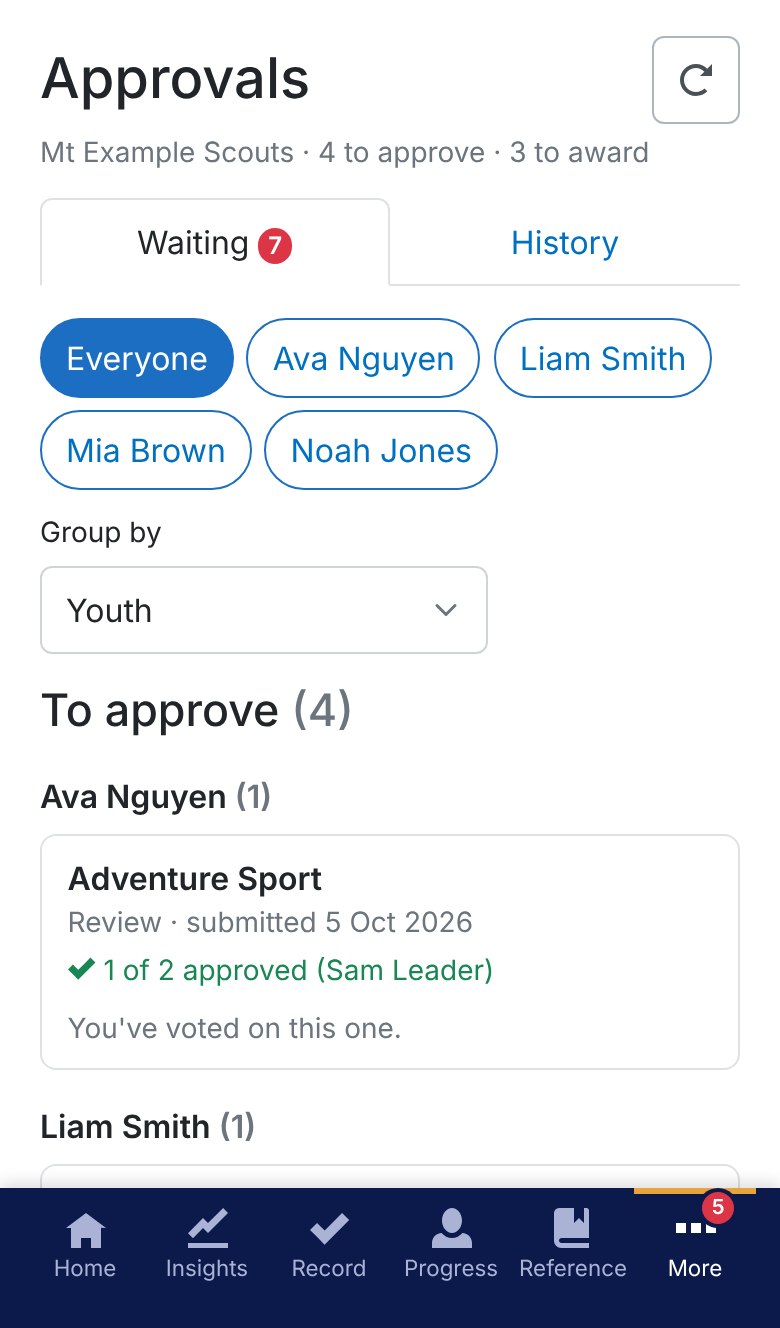
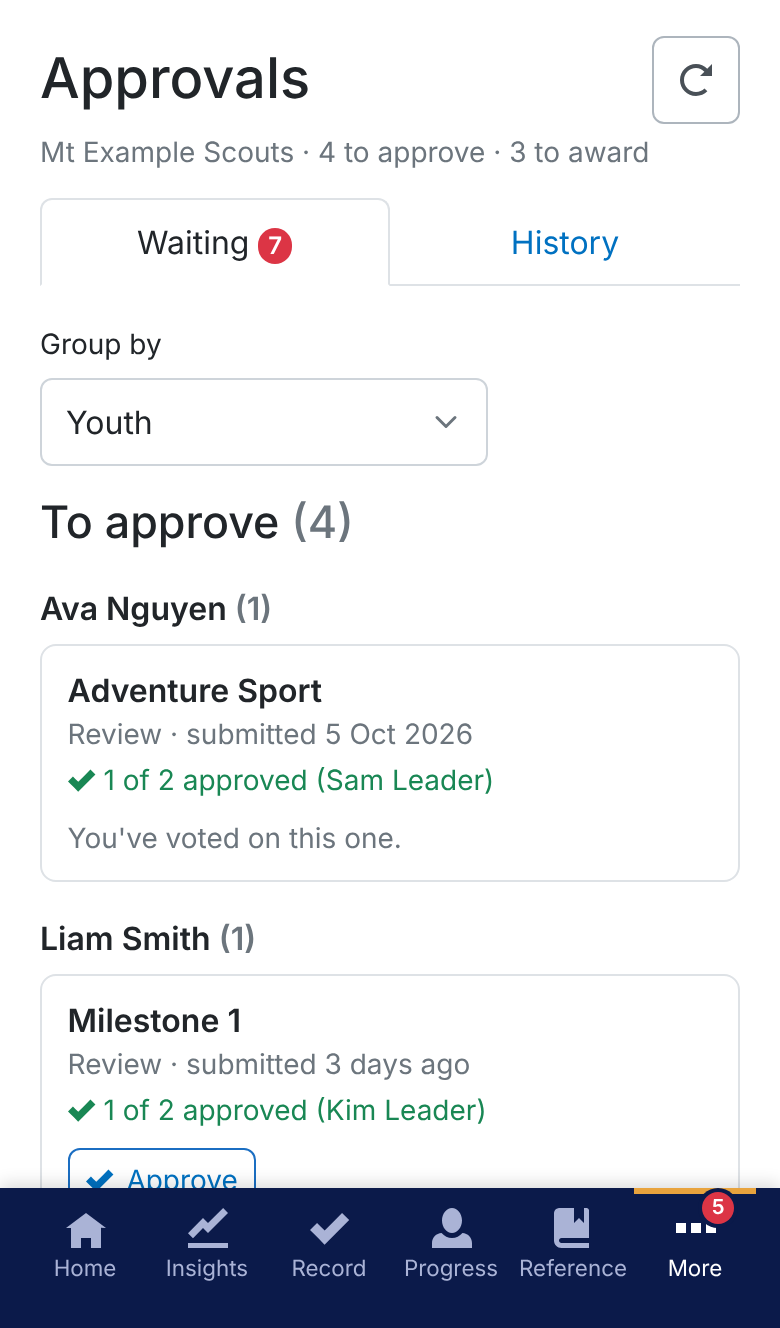
Approvals: drop the youth filter, keep Group by
The Waiting and History tabs no longer have the Everyone / youth chips.
Waiting keeps Group by (Youth or Achievement). The README's Approvals
screenshot is taken again to match.

Claude-Session: https://claude.ai/code/session_015mRLp29RKmPLuQrvmduhrB

diff --git a/src/routes/approvals/+page.svelte b/src/routes/approvals/+page.svelte
@@ -39,8 +39,7 @@
 	let pending = $state<PendingApproval[]>([]);
 	let loading = $state(false);
 	let errorMessage = $state('');
-	// Youth to show (none picked means everyone), and how the cards are grouped
-	let selectedNames = $state<string[]>([]);
+	// How the cards are grouped: by youth, or by achievement
 	let groupByMember = $state(true);
 	let confirming = $state('');
 	// Awards ticked to hand out together, and the day they're recorded against, today unless the leader
@@ -115,7 +114,6 @@
 		pending = list;
 		// Keeps the badge on More and Approvals in step, e.g. once the leader has voted
 		approvalsBadge.update(id, list);
-		selectedNames = selectedNames.filter((n) => list.some((a) => a.memberName === n));
 	}
 
 	/** Shows what the leader did straight away, then reloads the list from Terrain */
@@ -182,16 +180,10 @@
 		untrack(load);
 	});
 
-	const memberNames = $derived(
-		sortBy(
-			distinct(pending.map((a) => a.memberName)),
-			asc((n) => n)
-		)
-	);
 	const grouped = (list: PendingApproval[]) =>
 		groupBy(
 			sortBy(
-				list.filter((a) => selectedNames.length === 0 || selectedNames.includes(a.memberName)),
+				list,
 				asc((a) => (groupByMember ? a.memberName : a.achievementName)),
 				asc((a) => Date.parse(a.submittedOn) || 0)
 			),
@@ -215,7 +207,7 @@
 				const items = pending.filter((a) => a.unitId === unit.id);
 				const toAward = items.filter((a) => a.isAward);
 				const awardGroups = grouped(toAward);
-				// The awards this leader can tick, as shown with the youth filter
+				// The awards this leader can tick
 				const awardable = awardGroups.flatMap((g) => g.items).filter(canAwardInBeacon);
 				return {
 					unit,
@@ -245,24 +237,8 @@
 	const historyUnits = $derived(distinct(history.map((h) => h.unitId)).length > 1);
 	const names = (voters: { name: string }[]) => voters.map((v) => v.name).join(', ');
 
-	const historyNames = $derived(
-		sortBy(
-			distinct(history.map((h) => h.memberName)),
-			asc((n) => n)
-		)
-	);
 	const recentHistory = $derived(history.filter((h) => decidedWithin(h, RECENT_DAYS)));
-	const shownHistory = $derived(
-		(showOlder ? history : recentHistory).filter(
-			(h) => selectedNames.length === 0 || selectedNames.includes(h.memberName)
-		)
-	);
-
-	function toggleName(name: string) {
-		selectedNames = selectedNames.includes(name)
-			? selectedNames.filter((n) => n !== name)
-			: [...selectedNames, name];
-	}
+	const shownHistory = $derived(showOlder ? history : recentHistory);
 
 	async function approve(approval: PendingApproval) {
 		if (working) return;
@@ -554,24 +530,6 @@
 	{/if}
 {/snippet}
 
-{#snippet youthChips(list: string[])}
-	<div class="chip-group" aria-label="Youth">
-		<button
-			type="button"
-			class="btn chip {selectedNames.length === 0 ? 'btn-primary' : 'btn-outline-primary'}"
-			onclick={() => (selectedNames = [])}>Everyone</button
-		>
-		{#each list as name (name)}
-			<button
-				type="button"
-				class="btn chip {selectedNames.includes(name) ? 'btn-primary' : 'btn-outline-primary'}"
-				aria-pressed={selectedNames.includes(name)}
-				onclick={() => toggleName(name)}>{name}</button
-			>
-		{/each}
-	</div>
-{/snippet}
-
 {#snippet historyTab()}
 	{#if historyLoading && history.length === 0}
 		<p class="muted">Loading the history from Terrain...</p>
@@ -580,9 +538,6 @@
 	{:else if history.length === 0}
 		<div class="approvals-empty">Nothing has been through the Unit Council yet.</div>
 	{:else}
-		{#if historyNames.length > 1}
-			<div class="filters">{@render youthChips(historyNames)}</div>
-		{/if}
 		<p class="small muted">
 			{showOlder
 				? `All ${history.length} the Unit Council has finished with, most recent first.`
@@ -696,7 +651,6 @@
 		{:else}
 			{#if pending.length > 1}
 				<div class="filters">
-					{@render youthChips(memberNames)}
 					<div class="field group-by">
 						<label class="form-label small" for="groupBy">Group by</label>
 						<select
@@ -781,10 +735,6 @@
 
 	.filters {
 		margin-bottom: 1rem;
-	}
-
-	.filters .chip-group {
-		margin-bottom: 0.5rem;
 	}
 
 	.group-by {

diff --git a/tests/e2e/approvals.e2e.ts b/tests/e2e/approvals.e2e.ts
@@ -37,10 +37,8 @@ test('lists what is waiting for the Unit Council, with who has voted', async ({ 
 		page.getByRole('region', { name: 'Noah Jones' }).getByRole('button', { name: 'Approve' })
 	).toHaveCount(0);
 
-	// Filtered by youth, and grouped by youth instead
-	await page.getByRole('button', { name: 'Mia Brown' }).click();
-	await expect(page.locator('.approval-card')).toHaveCount(1);
-	await page.getByRole('button', { name: 'Everyone' }).click();
+	// No youth filter, just a choice of grouping
+	await expect(page.getByRole('button', { name: 'Everyone' })).toHaveCount(0);
 	await page.selectOption('#groupBy', 'achievement');
 	await expect(toApprove.locator('.group-heading')).toHaveText([
 		'Adventure Sport (1)',
@@ -172,9 +170,6 @@ test('History lists what the Unit Council has finished with, most recent first',
 	await expect(cards).toHaveCount(3);
 	await expect(cards.nth(2)).toContainText('Mia Brown');
 	await expect(cards.nth(2)).toContainText('Intro To Scouting');
-
-	await page.getByRole('button', { name: 'Liam Smith' }).click();
-	await expect(cards).toHaveCount(1);
 });
 
 test('something approved through shows in the History', async ({ page }) => {
